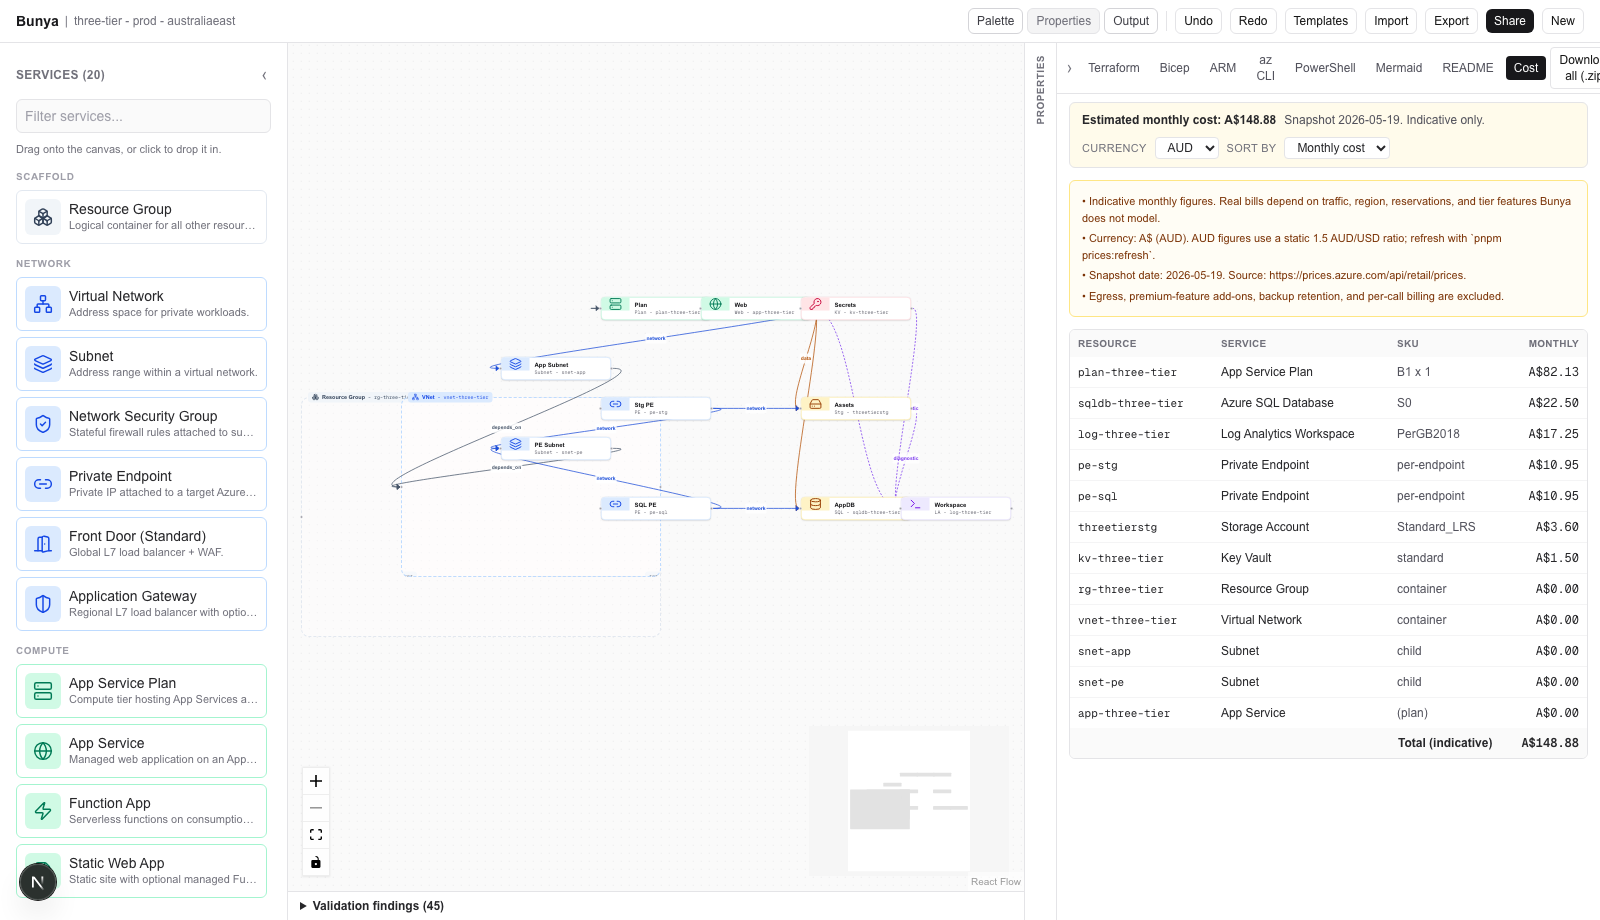
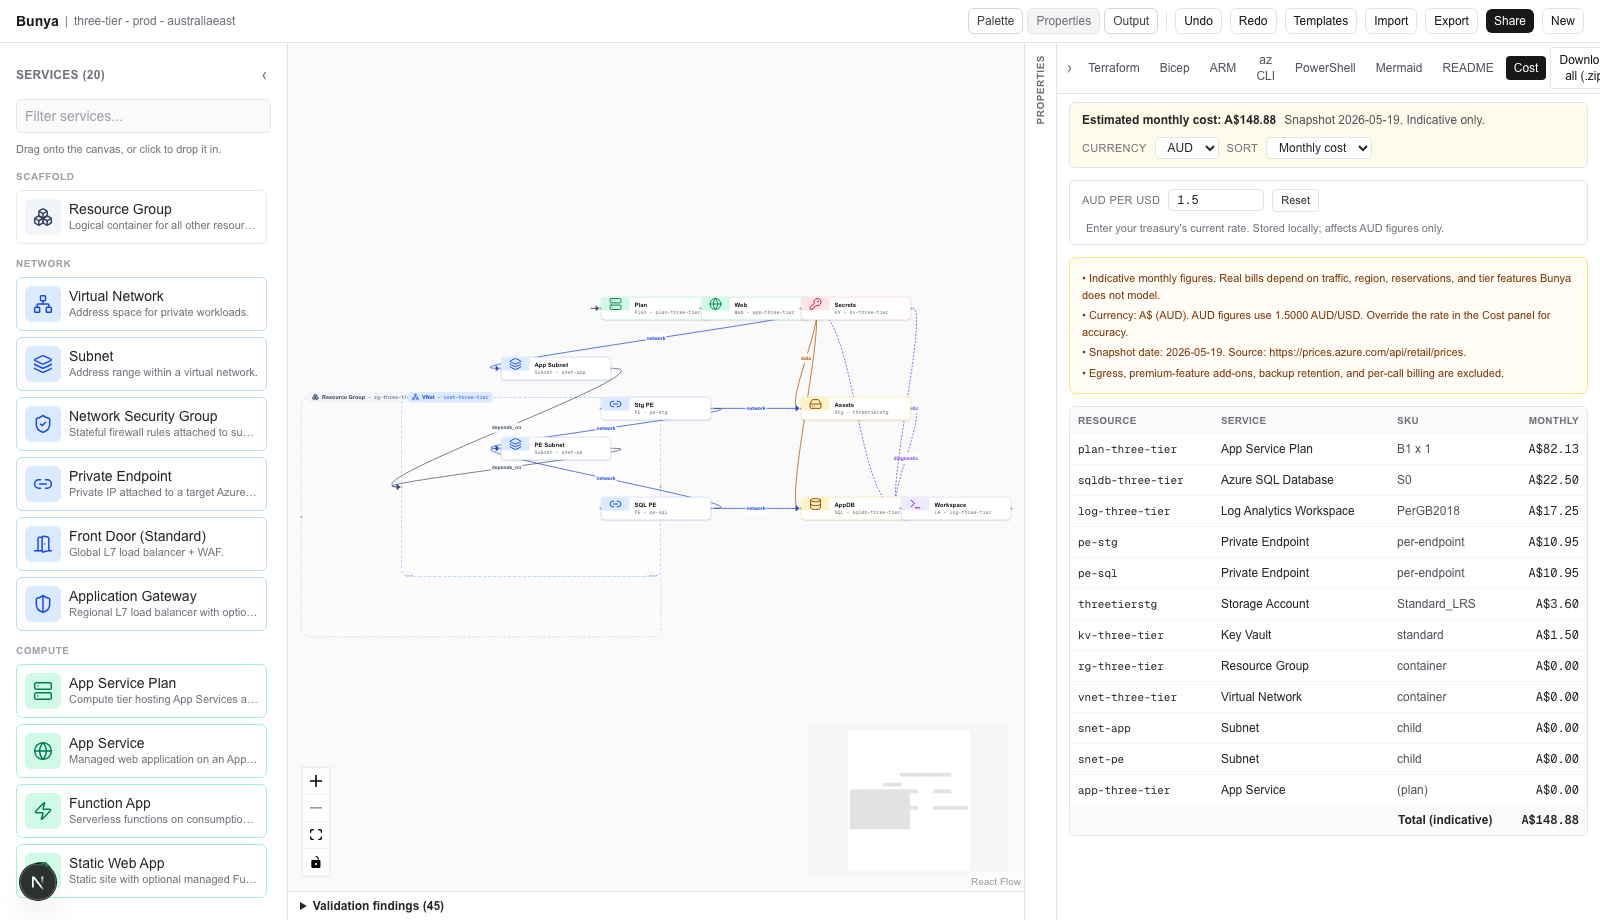
feat(cost): user-editable AUD/USD exchange rate persisted to localStorage

diff --git a/components/output/CostPanel.tsx b/components/output/CostPanel.tsx
@@ -3,19 +3,41 @@
 import { useMemo, useState } from "react";
 import type { GraphDocument } from "@/lib/graph/schema";
 import { estimateCost, formatMoney } from "@/lib/pricing/estimate";
-import type { Currency } from "@/lib/pricing/data";
+import { DEFAULT_FX_AUD_PER_USD, type Currency } from "@/lib/pricing/data";
+import { useGraphStore } from "@/lib/graph/store";
 
 export function CostPanel({ document }: { document: GraphDocument }) {
   const [currency, setCurrency] = useState<Currency>("AUD");
   const [sortBy, setSortBy] = useState<"monthly" | "service">("monthly");
+  const fxAudPerUsd = useGraphStore((s) => s.fxAudPerUsd);
+  const setFxAudPerUsd = useGraphStore((s) => s.setFxAudPerUsd);
+  const [fxDraft, setFxDraft] = useState<string>(String(fxAudPerUsd));
 
-  const estimate = useMemo(() => estimateCost(document, currency), [document, currency]);
+  const estimate = useMemo(
+    () => estimateCost(document, { currency, audPerUsd: fxAudPerUsd }),
+    [document, currency, fxAudPerUsd],
+  );
   const items = useMemo(() => {
     const copy = [...estimate.lineItems];
     if (sortBy === "monthly") copy.sort((a, b) => b.monthly - a.monthly);
     else copy.sort((a, b) => a.serviceLabel.localeCompare(b.serviceLabel));
     return copy;
   }, [estimate.lineItems, sortBy]);
+
+  const onFxCommit = () => {
+    const next = Number(fxDraft);
+    if (!Number.isFinite(next) || next <= 0) {
+      setFxDraft(String(fxAudPerUsd));
+      return;
+    }
+    setFxAudPerUsd(next);
+    setFxDraft(String(next));
+  };
+
+  const onFxReset = () => {
+    setFxAudPerUsd(DEFAULT_FX_AUD_PER_USD);
+    setFxDraft(String(DEFAULT_FX_AUD_PER_USD));
+  };
 
   return (
     <div className="flex flex-col gap-3 text-zinc-800 dark:text-zinc-100">
@@ -36,7 +58,7 @@ export function CostPanel({ document }: { document: GraphDocument }) {
             <option value="AUD">AUD</option>
             <option value="USD">USD</option>
           </select>
-          <label className="text-[11px] uppercase tracking-wide text-zinc-500">Sort by</label>
+          <label className="text-[11px] uppercase tracking-wide text-zinc-500">Sort</label>
           <select
             value={sortBy}
             onChange={(e) => setSortBy(e.target.value as "monthly" | "service")}
@@ -47,6 +69,41 @@ export function CostPanel({ document }: { document: GraphDocument }) {
           </select>
         </div>
       </header>
+
+      <div className="flex flex-wrap items-center gap-2 rounded-md border border-zinc-200 bg-white px-3 py-2 text-[12px] dark:border-zinc-700 dark:bg-zinc-900">
+        <label className="text-[11px] uppercase tracking-wide text-zinc-500" htmlFor="fx-rate">
+          AUD per USD
+        </label>
+        <input
+          id="fx-rate"
+          type="number"
+          inputMode="decimal"
+          step="0.01"
+          min="0.5"
+          max="10"
+          value={fxDraft}
+          onChange={(e) => setFxDraft(e.target.value)}
+          onBlur={onFxCommit}
+          onKeyDown={(e) => {
+            if (e.key === "Enter") {
+              (e.target as HTMLInputElement).blur();
+            }
+          }}
+          className="w-24 rounded border border-zinc-200 bg-white px-2 py-0.5 font-mono text-xs dark:border-zinc-700 dark:bg-zinc-800"
+          aria-label="AUD per USD exchange rate"
+        />
+        <button
+          type="button"
+          onClick={onFxReset}
+          className="rounded border border-zinc-200 px-2 py-0.5 text-[11px] hover:bg-zinc-100 dark:border-zinc-700 dark:hover:bg-zinc-800"
+          title={`Reset to ${DEFAULT_FX_AUD_PER_USD}`}
+        >
+          Reset
+        </button>
+        <span className="ml-1 text-[11px] text-zinc-500">
+          Enter your treasury's current rate. Stored locally; affects AUD figures only.
+        </span>
+      </div>
 
       <ul className="space-y-1 rounded-md border border-amber-200 bg-amber-50/50 p-3 text-[11px] text-amber-900 dark:border-amber-900 dark:bg-amber-950/20 dark:text-amber-200">
         {estimate.caveats.map((c) => (

diff --git a/lib/pricing/estimate.ts b/lib/pricing/estimate.ts
@@ -1,6 +1,7 @@
 import type { GraphDocument, GraphNode, ServiceType } from "@/lib/graph/schema";
 import {
   Currency,
+  DEFAULT_FX_AUD_PER_USD,
   PRICE_BOOK,
   PRICE_SNAPSHOT_DATE,
   PRICE_SOURCE_URL,
@@ -27,6 +28,12 @@ export type CostEstimate = {
   lineItems: CostLineItem[];
   total: number;
   caveats: string[];
+  fxAudPerUsd: number;
+};
+
+export type EstimateOptions = {
+  currency?: Currency;
+  audPerUsd?: number;
 };
 
 const SERVICE_LABELS: Record<ServiceType, string> = {
@@ -124,8 +131,15 @@ function priceKeyFor(node: GraphNode): { key: string; sku: string } {
   }
 }
 
-export function estimateCost(document: GraphDocument, currency: Currency = "AUD"): CostEstimate {
-  const fx = fxFor(currency);
+export function estimateCost(
+  document: GraphDocument,
+  options: Currency | EstimateOptions = "AUD",
+): CostEstimate {
+  const opts: EstimateOptions =
+    typeof options === "string" ? { currency: options } : options;
+  const currency: Currency = opts.currency ?? "AUD";
+  const audPerUsd = opts.audPerUsd ?? DEFAULT_FX_AUD_PER_USD;
+  const fx = fxFor(currency, audPerUsd);
   const lineItems: CostLineItem[] = [];
   let total = 0;
 
@@ -163,9 +177,14 @@ export function estimateCost(document: GraphDocument, currency: Currency = "AUD"
     });
   }
 
+  const fxNote =
+    currency === "AUD"
+      ? `AUD figures use ${audPerUsd.toFixed(4)} AUD/USD. Override the rate in the Cost panel for accuracy.`
+      : `USD figures map 1:1 from the source. FX override active for AUD only.`;
+
   const caveats = [
     `Indicative monthly figures. Real bills depend on traffic, region, reservations, and tier features Bunya does not model.`,
-    `Currency: ${symbol(currency)} (${currency}). AUD figures use a static 1.5 AUD/USD ratio; refresh with \`pnpm prices:refresh\`.`,
+    `Currency: ${symbol(currency)} (${currency}). ${fxNote}`,
     `Snapshot date: ${PRICE_SNAPSHOT_DATE}. Source: ${PRICE_SOURCE_URL}.`,
     `Egress, premium-feature add-ons, backup retention, and per-call billing are excluded.`,
   ];
@@ -178,6 +197,7 @@ export function estimateCost(document: GraphDocument, currency: Currency = "AUD"
     lineItems,
     total,
     caveats,
+    fxAudPerUsd: audPerUsd,
   };
 }
 

diff --git a/lib/graph/store.ts b/lib/graph/store.ts
@@ -1,6 +1,7 @@
 import { create, type StateCreator } from "zustand";
 import { createStore } from "zustand/vanilla";
 import { ulid } from "ulid";
+import { clampFxRate, DEFAULT_FX_AUD_PER_USD } from "@/lib/pricing/data";
 import {
   EdgeKind,
   GraphDocument,
@@ -21,6 +22,7 @@ export type GraphStoreState = {
   history: GraphDocument[];
   future: GraphDocument[];
   collapsed: Record<PanelId, boolean>;
+  fxAudPerUsd: number;
 };
 
 export type GraphStoreActions = {
@@ -47,6 +49,7 @@ export type GraphStoreActions = {
   redo: () => void;
   togglePanel: (id: PanelId) => void;
   setPanelCollapsed: (id: PanelId, collapsed: boolean) => void;
+  setFxAudPerUsd: (rate: number) => void;
 };
 
 export type GraphStore = GraphStoreState & GraphStoreActions;
@@ -65,6 +68,19 @@ const graphStoreInitializer: StateCreator<GraphStore> = (set, get) => ({
   history: [],
   future: [],
   collapsed: { palette: false, properties: false, output: false, validation: false },
+  fxAudPerUsd: DEFAULT_FX_AUD_PER_USD,
+
+  setFxAudPerUsd: (rate) => {
+    const clamped = clampFxRate(rate);
+    set({ fxAudPerUsd: clamped });
+    if (typeof localStorage !== "undefined") {
+      try {
+        localStorage.setItem("bunya.settings.fxAudPerUsd", String(clamped));
+      } catch {
+        // ignore quota errors
+      }
+    }
+  },
 
   togglePanel: (id) => {
     set((state) => ({

diff --git a/lib/pricing/estimate.test.ts b/lib/pricing/estimate.test.ts
@@ -89,4 +89,22 @@ describe("estimateCost", () => {
     expect(formatMoney(123.456, "AUD")).toBe("A$123.46");
     expect(formatMoney(0, "USD")).toBe("$0.00");
   });
+
+  it("honours an explicit AUD/USD rate", () => {
+    const base = estimateCost(firstCutGraph, { currency: "USD" });
+    const aud16 = estimateCost(firstCutGraph, { currency: "AUD", audPerUsd: 1.6 });
+    expect(aud16.fxAudPerUsd).toBe(1.6);
+    expect(aud16.total).toBeCloseTo(base.total * 1.6, 1);
+  });
+
+  it("does not apply the FX rate to USD output", () => {
+    const usd1 = estimateCost(firstCutGraph, { currency: "USD", audPerUsd: 1.6 });
+    const usd2 = estimateCost(firstCutGraph, { currency: "USD", audPerUsd: 2.0 });
+    expect(usd1.total).toBeCloseTo(usd2.total, 5);
+  });
+
+  it("includes the FX rate in caveats for AUD", () => {
+    const estimate = estimateCost(firstCutGraph, { currency: "AUD", audPerUsd: 1.65 });
+    expect(estimate.caveats.join(" ")).toContain("1.6500 AUD/USD");
+  });
 });

diff --git a/lib/pricing/data.ts b/lib/pricing/data.ts
@@ -13,7 +13,7 @@
 
 export type Currency = "USD" | "AUD";
 
-export const FX_AUD_PER_USD = 1.5;
+export const DEFAULT_FX_AUD_PER_USD = 1.5;
 export const PRICE_SNAPSHOT_DATE = "2026-05-19";
 export const PRICE_SOURCE_URL = "https://prices.azure.com/api/retail/prices";
 
@@ -24,12 +24,17 @@ export type PriceEntry = {
 
 export type PriceBook = Record<string, PriceEntry>;
 
-export function fxFor(currency: Currency): number {
-  return currency === "AUD" ? FX_AUD_PER_USD : 1;
+export function fxFor(currency: Currency, audPerUsd: number = DEFAULT_FX_AUD_PER_USD): number {
+  return currency === "AUD" ? audPerUsd : 1;
 }
 
 export function symbol(currency: Currency): string {
   return currency === "AUD" ? "A$" : "$";
+}
+
+export function clampFxRate(rate: number): number {
+  if (!Number.isFinite(rate) || rate <= 0) return DEFAULT_FX_AUD_PER_USD;
+  return Math.min(Math.max(rate, 0.5), 10);
 }
 
 export const PRICE_BOOK: PriceBook = {

diff --git a/lib/generators/cost.ts b/lib/generators/cost.ts
@@ -2,8 +2,15 @@ import type { GraphDocument } from "@/lib/graph/schema";
 import { estimateCost, formatMoney } from "@/lib/pricing/estimate";
 import type { GeneratedFile, GeneratorResult } from "./types";
 
-export function generateCostEstimate(document: GraphDocument): GeneratorResult {
-  const estimate = estimateCost(document, "AUD");
+export type CostGeneratorOptions = {
+  audPerUsd?: number;
+};
+
+export function generateCostEstimate(
+  document: GraphDocument,
+  options: CostGeneratorOptions = {},
+): GeneratorResult {
+  const estimate = estimateCost(document, { currency: "AUD", audPerUsd: options.audPerUsd });
   const lines: string[] = [
     `# Cost estimate — ${document.metadata.name}`,
     ``,

diff --git a/components/output/OutputTabs.tsx b/components/output/OutputTabs.tsx
@@ -72,9 +72,17 @@ export function OutputTabs() {
   const document = useGraphStore((s) => s.document);
   const [activeId, setActiveId] = useState<TabId>("terraform");
 
+  const fxAudPerUsd = useGraphStore((s) => s.fxAudPerUsd);
   const results = useMemo(
-    () => TABS.map((tab) => ({ tab, result: tab.run(document) })),
-    [document],
+    () =>
+      TABS.map((tab) => ({
+        tab,
+        result:
+          tab.id === "cost"
+            ? generateCostEstimate(document, { audPerUsd: fxAudPerUsd })
+            : tab.run(document),
+      })),
+    [document, fxAudPerUsd],
   );
 
   const active = results.find((r) => r.tab.id === activeId);

diff --git a/components/canvas/Toolbar.tsx b/components/canvas/Toolbar.tsx
@@ -70,10 +70,15 @@ export function Toolbar() {
       void deserialiseFromFragment(hash).then((doc) => {
         if (doc) replaceDocument(doc);
       });
-      return;
+    } else {
+      const stored = loadFromLocalStorage();
+      if (stored) replaceDocument(stored);
     }
-    const stored = loadFromLocalStorage();
-    if (stored) replaceDocument(stored);
+    const fxRaw = localStorage.getItem("bunya.settings.fxAudPerUsd");
+    const fx = fxRaw === null ? NaN : Number(fxRaw);
+    if (Number.isFinite(fx) && fx > 0) {
+      useGraphStore.getState().setFxAudPerUsd(fx);
+    }
   }, [replaceDocument]);
 
   useEffect(() => {

diff --git a/README.md b/README.md
@@ -133,7 +133,7 @@ the user can promote them to explicit nodes.
 | PowerShell | `Deploy-Infrastructure.ps1` | `[CmdletBinding(SupportsShouldProcess)]`. Splatting. `Set-StrictMode -Version Latest`. No `Write-Host`. |
 | Mermaid | `architecture.mmd` | `flowchart LR` with per-category classDefs and edge-kind labels. |
 | README | `README.md` | Inlined Mermaid + deployment commands per format. |
-| Cost | `cost-estimate.md` + in-tab table | Indicative monthly estimate per resource. Currency toggle (AUD default + USD). Snapshot sourced from `https://prices.azure.com/api/retail/prices`; refresh via `pnpm prices:refresh`. |
+| Cost | `cost-estimate.md` + in-tab table | Indicative monthly estimate per resource with AUD/USD toggle and a **user-editable AUD/USD exchange rate** (persisted to `localStorage`, plug in your treasury's number for accurate AUD). Source: `https://prices.azure.com/api/retail/prices`; refresh via `pnpm prices:refresh`. |
 
 Conditional parameters: when the graph has no SQL Database, no generator
 emits a SQL admin password parameter. When the graph has no Virtual Network,
